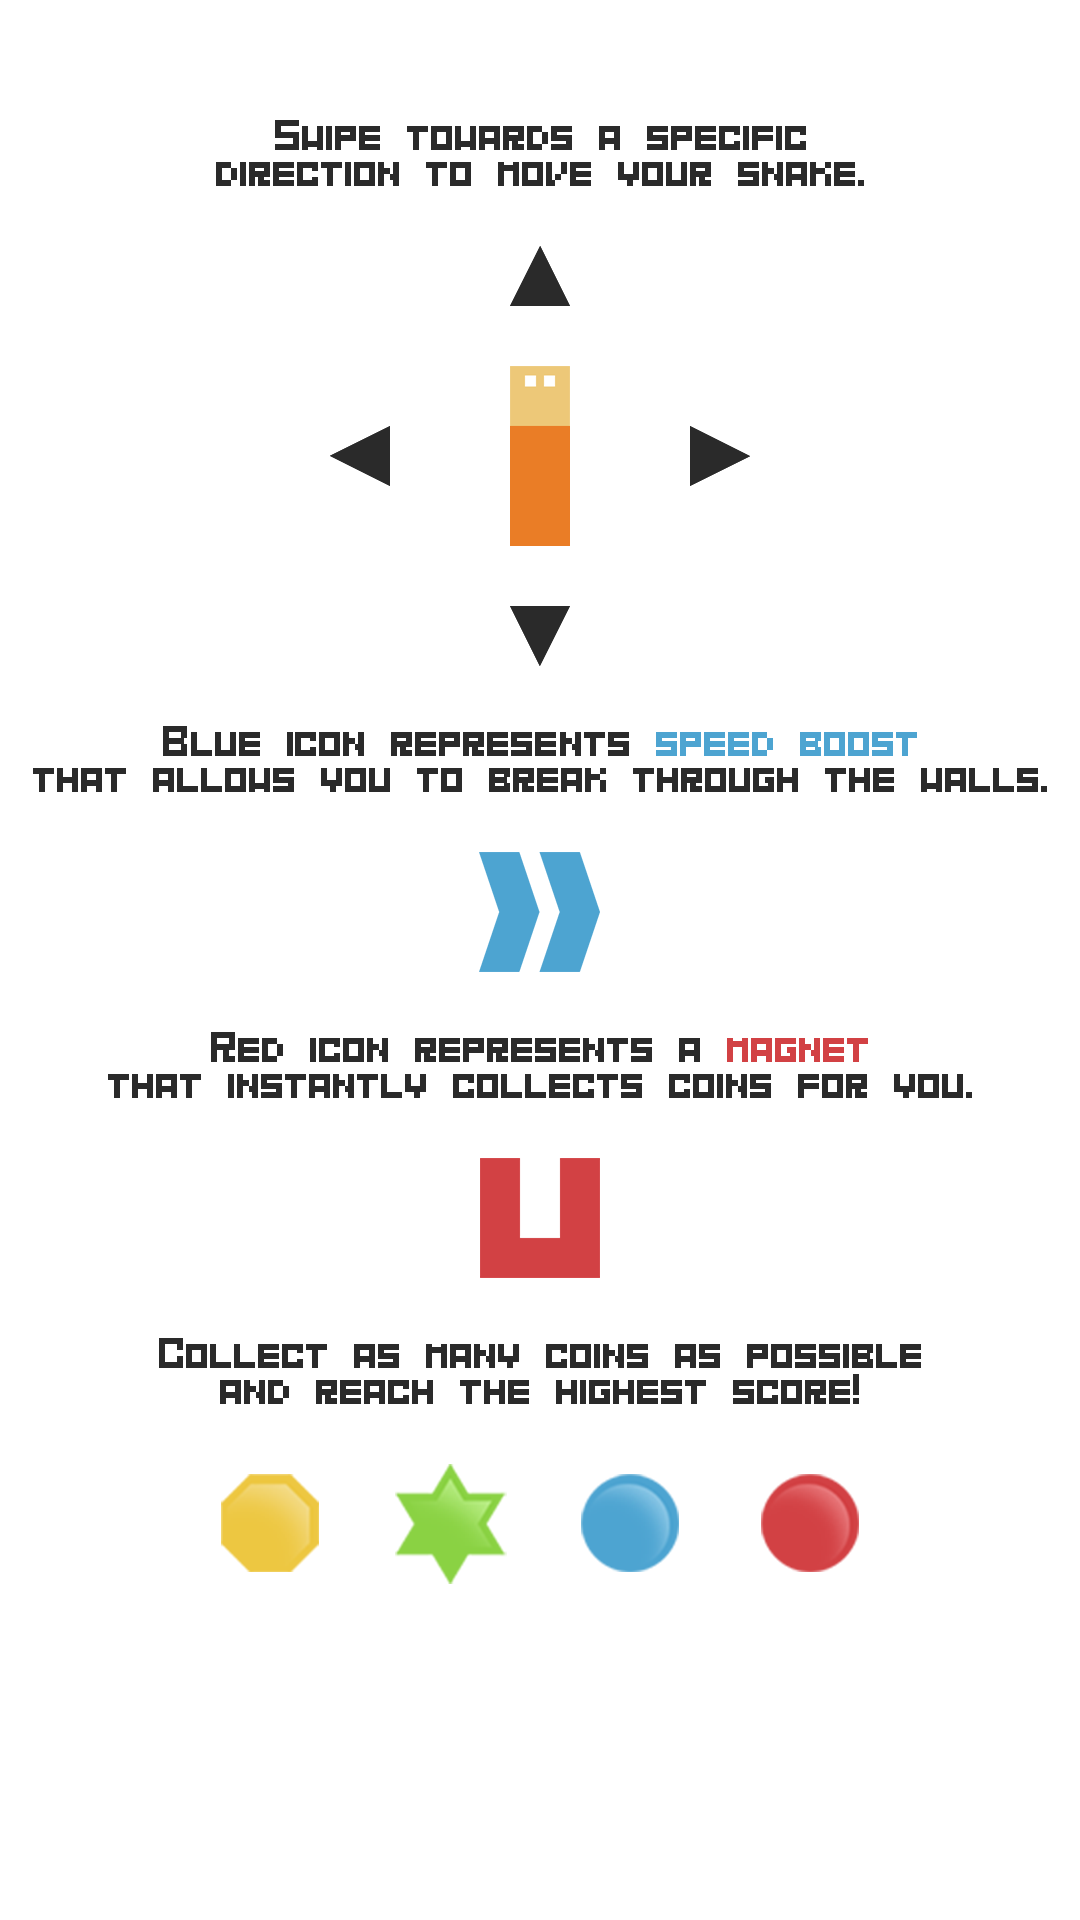
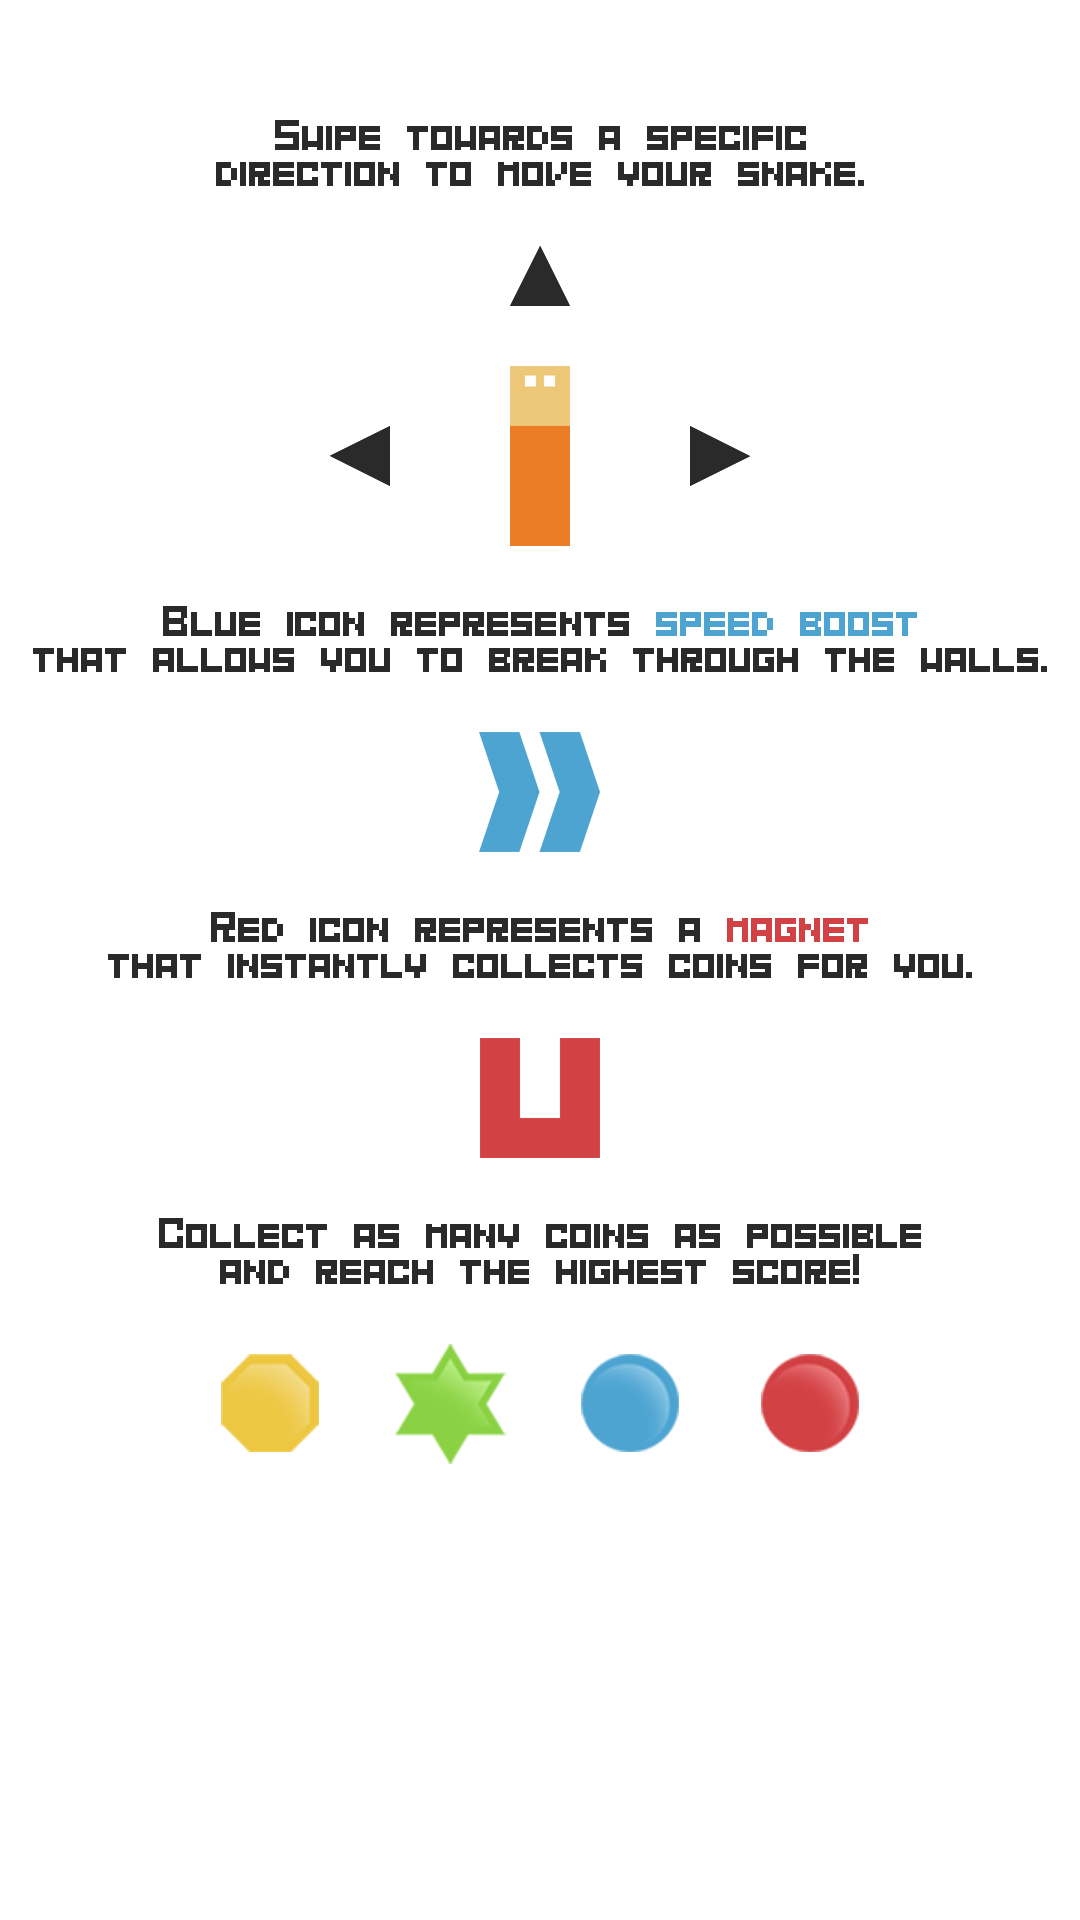
p

diff --git a/core/src/com/semblergames/snake/gamePackage/PlayState.java b/core/src/com/semblergames/snake/gamePackage/PlayState.java
@@ -56,6 +56,7 @@ public class PlayState extends GameState {
 
     //teksture za okruzenje
 
+    private Texture tipTexture;
     private Texture scoreTexture;
     private Texture whiteTexture;
     private Texture lineTexture;
@@ -107,12 +108,12 @@ public class PlayState extends GameState {
     private PowerupHandler speedPowerup;
     private PowerupHandler magnetPowerup;
 
-    private CountDownView countDownView;
+    private Image tipImage;
 
 
     //indikatori faza
 
-    private boolean countDown;
+    private boolean tip;
     private boolean playing;
     private boolean paused;
     private boolean dead;
@@ -199,8 +200,8 @@ public class PlayState extends GameState {
         magnetPowerup = new PowerupHandler(magnetTextures, Direction.right);
         speedPowerup = new PowerupHandler(speedTextures, Direction.left);
 
-        countDownView = new CountDownView(numbers);
-        countDownView.setPosition(main.WIDTH/2, main.HEIGHT/2 -90*main.SCALEY);
+        tipImage = new Image(tipTexture);
+        tipImage.setPosition(main.WIDTH/2 - tipTexture.getWidth()*main.SCALEX, 900*main.SCALEY);
 
         // postavljanje skora
 
@@ -222,7 +223,7 @@ public class PlayState extends GameState {
 
         //postavljanje faze
 
-        countDown = true;
+        tip = true;
         playing = false;
         dead = false;
         paused = false;
@@ -414,14 +415,6 @@ public class PlayState extends GameState {
 
             }
 
-        }else if(countDown){
-
-            countDownView.update(delta);
-            if(countDownView.isFinished()){
-                countDown = false;
-                playing = true;
-            }
-
         }else if(paused){
 
             resumeButton.update(delta);
@@ -529,10 +522,9 @@ public class PlayState extends GameState {
         font.draw(batch, Integer.toString(score), scoreX, scoreY);
 
 
-        if(countDown){
+        if(tip){
 
-            fadeImage.draw(batch);
-            countDownView.draw(batch);
+            tipImage.draw(batch);
 
         }else if(paused){
 
@@ -543,9 +535,7 @@ public class PlayState extends GameState {
             quitButton.draw(batch);
 
         }else if(dead){
-
             wallHit.draw(batch);
-
         }
 
         batch.end();
@@ -555,7 +545,7 @@ public class PlayState extends GameState {
     @Override
     public void touchDown(int x, int y) {
 
-        if(playing){
+        if(playing || tip){
 
             xPressed = x;
             yPressed = y;
@@ -573,7 +563,7 @@ public class PlayState extends GameState {
     @Override
     public void touchDragged(int x, int y) {
 
-        if(playing){
+        if(playing || tip){
             backButton.handleDown(x,y);
         }else if(paused){
             resumeButton.handleDown(x,y);
@@ -585,7 +575,7 @@ public class PlayState extends GameState {
     @Override
     public void touchUp(int x, int y) {
 
-        if(playing){
+        if(playing || tip){
 
             int dx = xPressed - x;
             int dy = yPressed - y;
@@ -593,11 +583,11 @@ public class PlayState extends GameState {
 
             if (Math.abs(dx) > Math.abs(dy)){
                 if(snake.getDirection() != Direction.right && snake.getDirection() != Direction.left && Math.abs(dx) > 50*main.SCALEX) {
-
+                    tip = false;
+                    playing = true;
 
                     if (dx > 0) {
                         if(snake.setDirection(Direction.left)){}
-
 
                     } else {
                         if(snake.setDirection(Direction.right)){}
@@ -606,7 +596,8 @@ public class PlayState extends GameState {
                 }
             }else{
                 if (snake.getDirection() != Direction.up && snake.getDirection() != Direction.down && Math.abs(dy) > 50*main.SCALEY) {
-
+                    tip = false;
+                    playing = true;
 
                     if (dy > 0) {
                         if(snake.setDirection(Direction.down)){}
@@ -629,8 +620,7 @@ public class PlayState extends GameState {
 
             if(resumeButton.handleUp(x,y)){
                 paused = false;
-                countDown = true;
-                countDownView.restart();
+                tip = true;
                 listener.playClicked();
             }
 
@@ -649,13 +639,12 @@ public class PlayState extends GameState {
         if(playing){
             playing = false;
             paused = true;
-        }else if(countDown){
-            countDown = false;
-            paused = true;
         }else if(paused){
             paused = false;
-            countDown = true;
-            countDownView.restart();
+            tip = true;
+        }else if(tip){
+            tip = false;
+            paused = true;
         }
     }
 
@@ -724,6 +713,8 @@ public class PlayState extends GameState {
         fadeTexture = new Texture("buttons/fade.png");
         pauseTexture = new Texture("buttons/pause.png");
 
+        tipTexture = new Texture("tutorial/start.png");
+
 
 
         numbers = new Texture[3];
@@ -787,6 +778,8 @@ public class PlayState extends GameState {
         quitTexture.dispose();
         fadeTexture.dispose();
         pauseTexture.dispose();
+
+        tipTexture.dispose();
 
         font.dispose();
 
